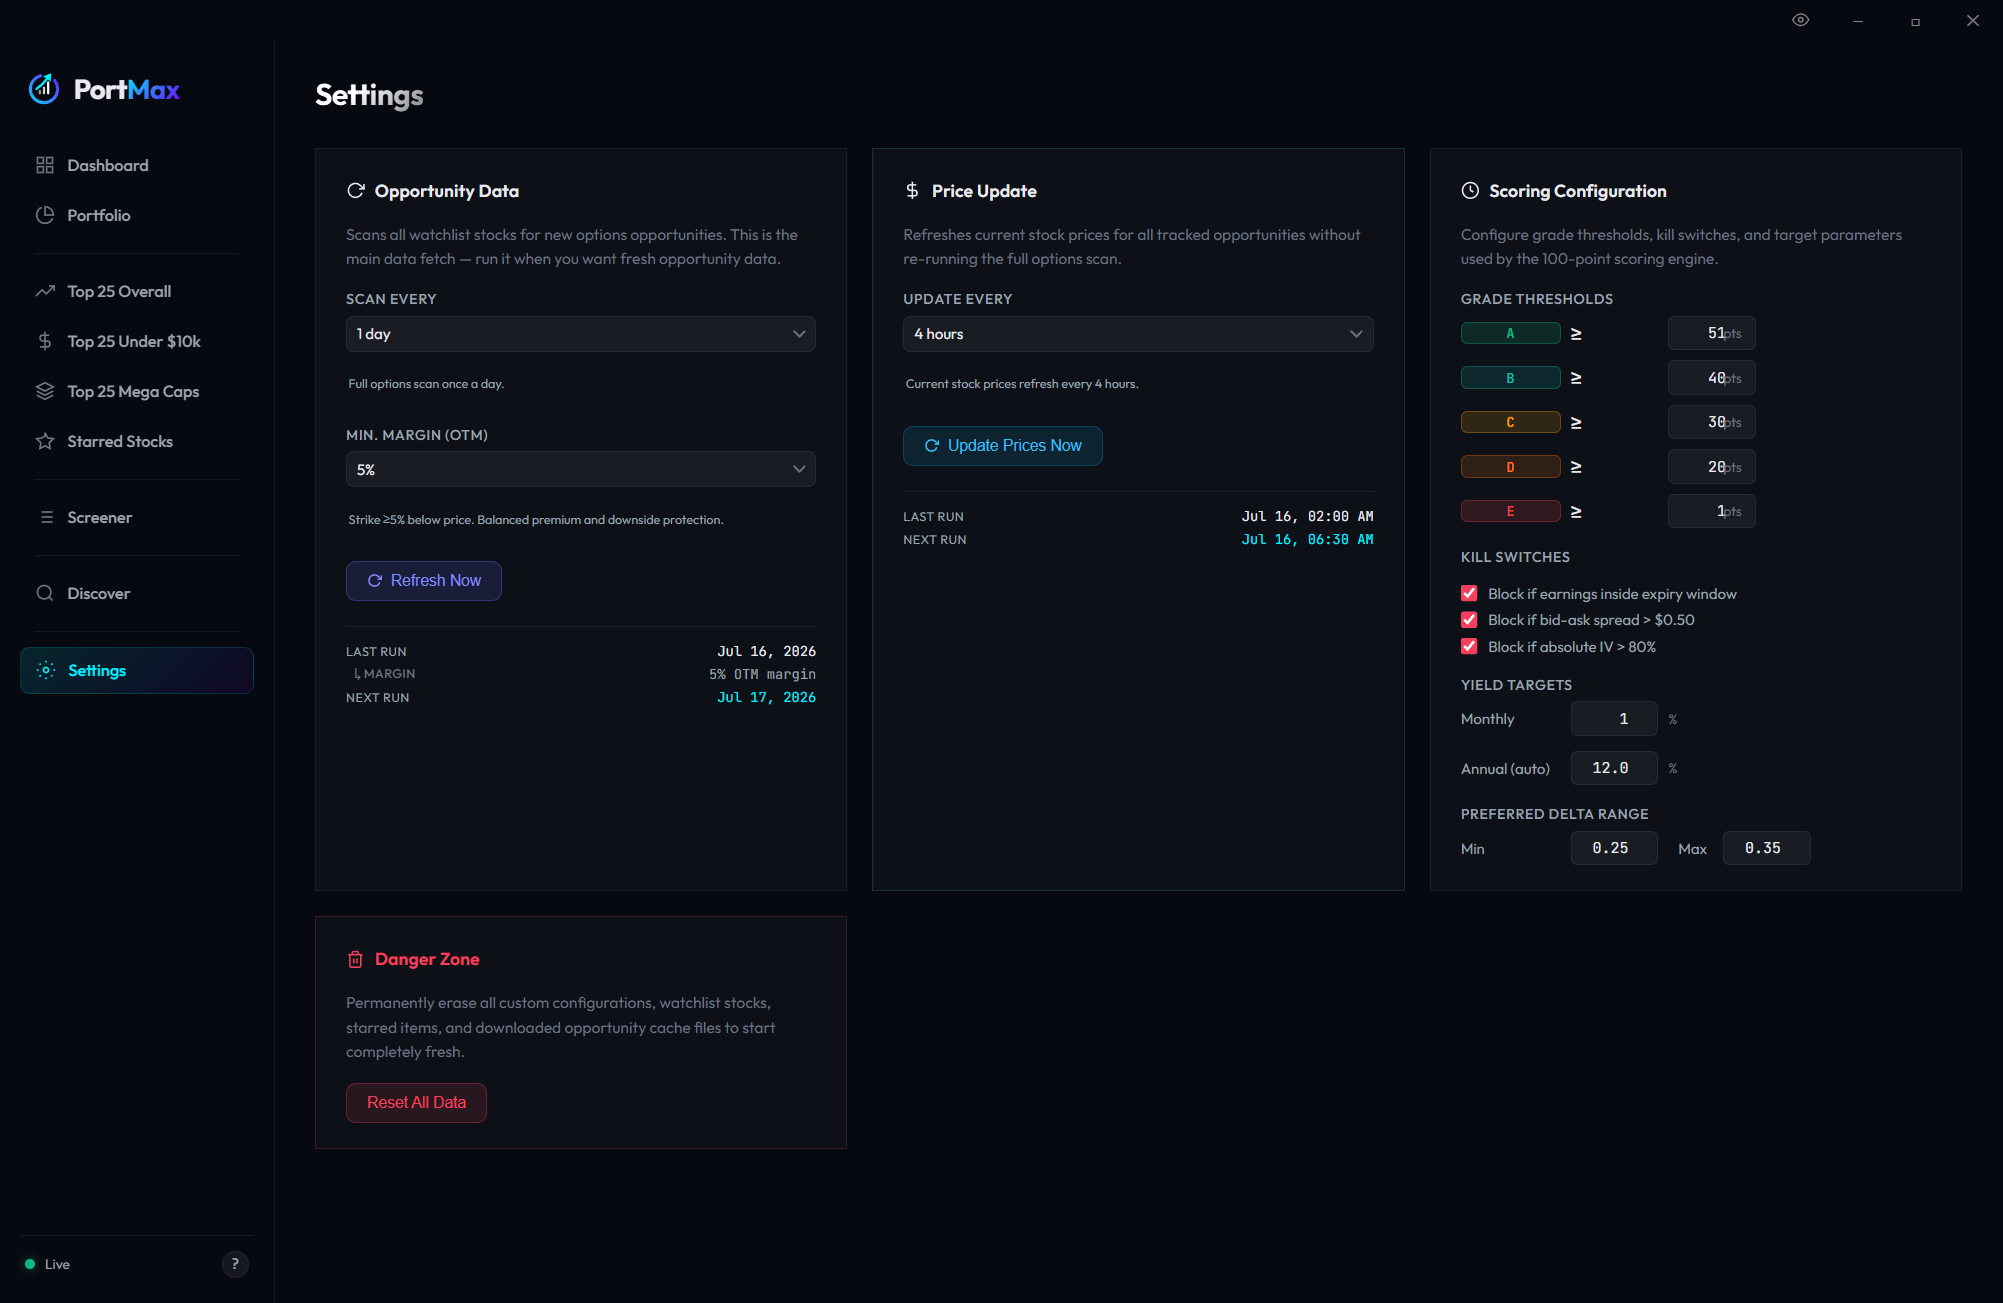
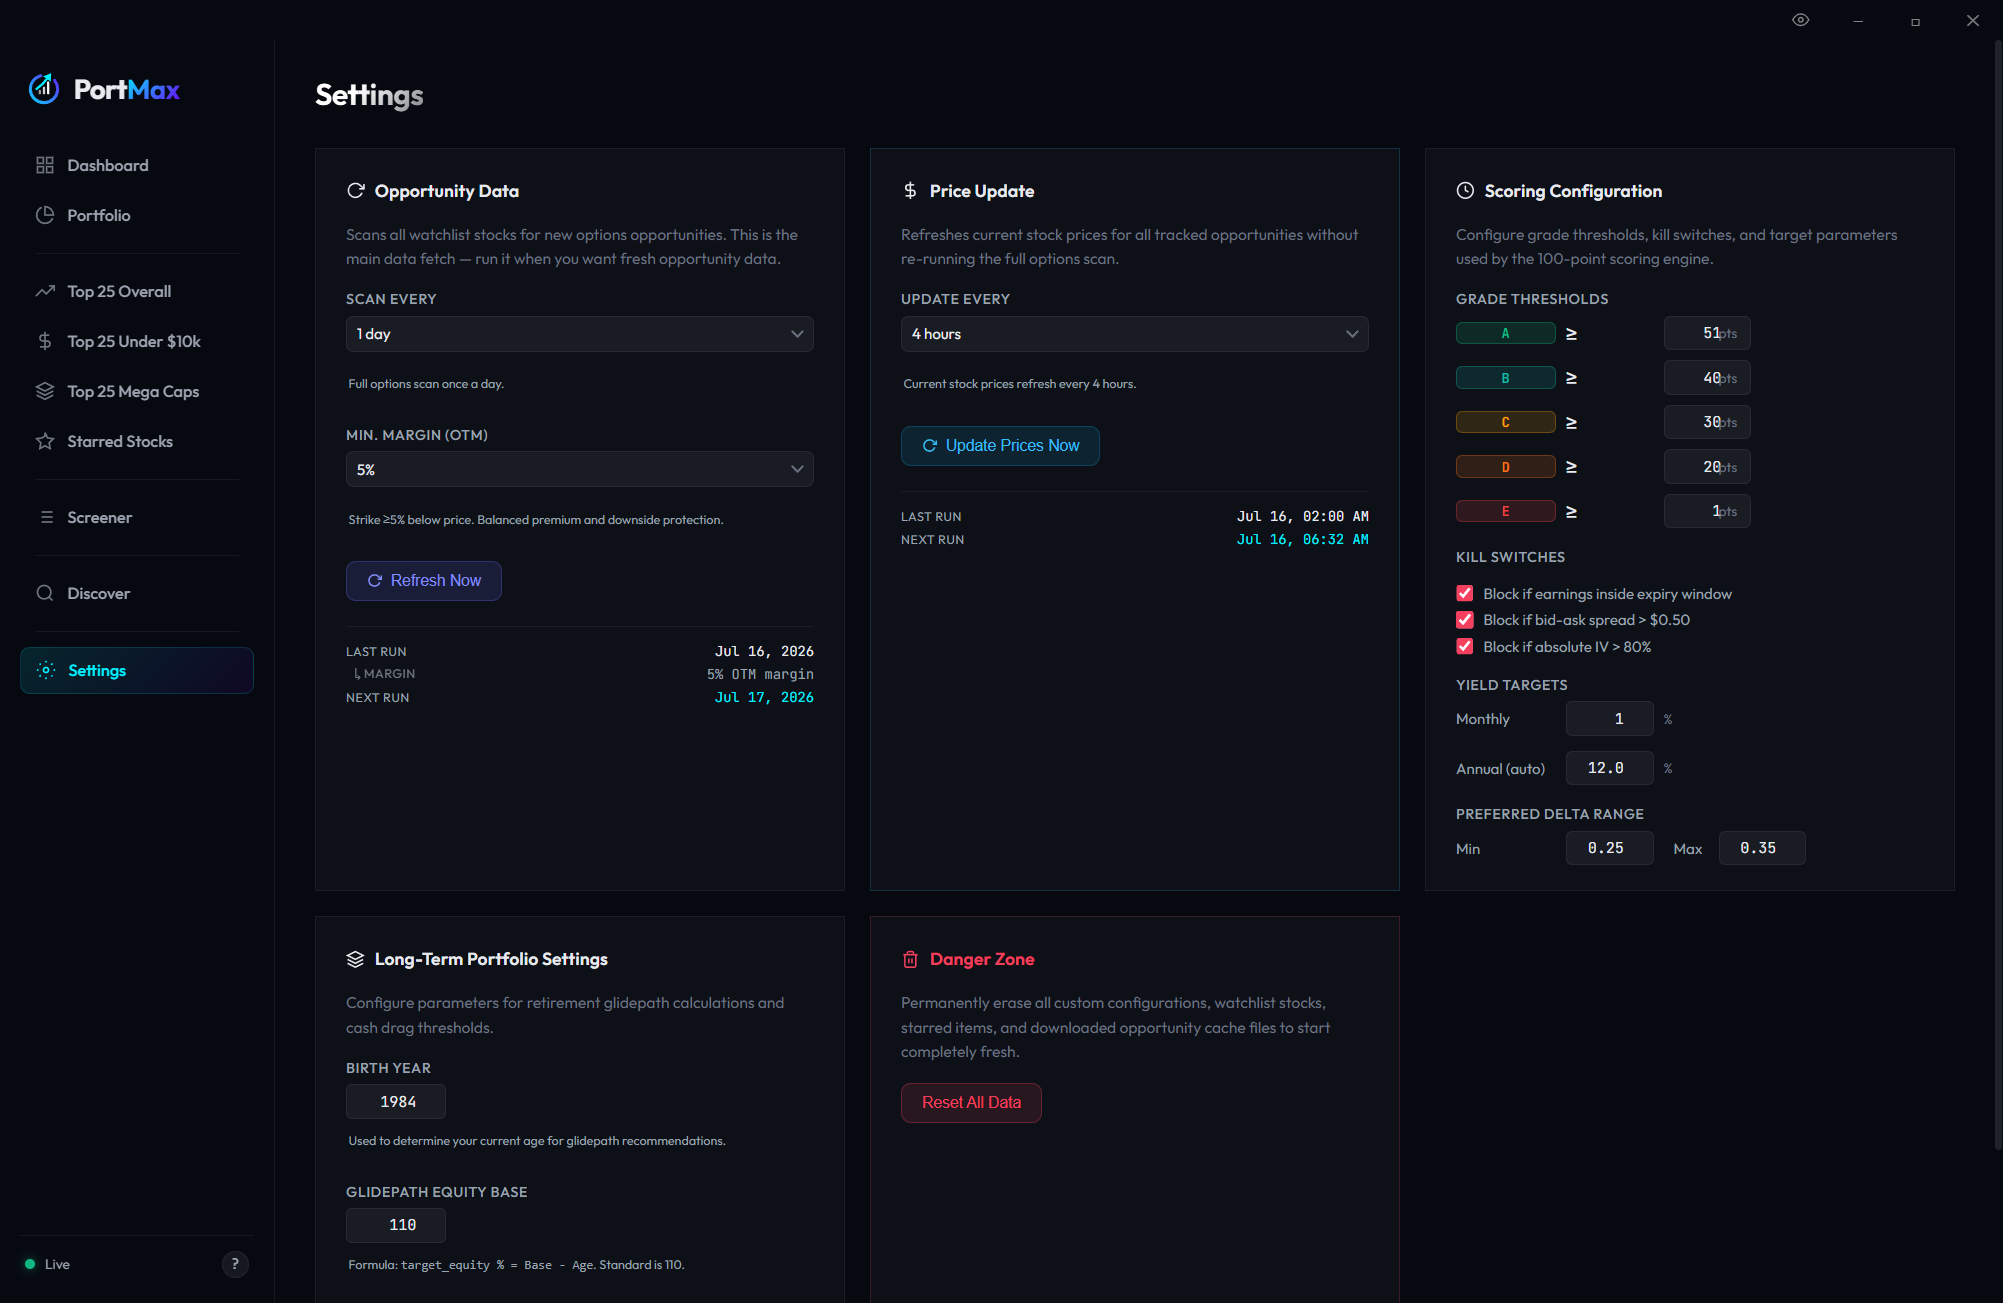
feat(guidance): add glidepath alerts and custom cash drag settings
Adds age-indexed equity target alerts and customizable cash drag
thresholds. Includes UI updates to manage these portfolio parameters.

diff --git a/lib/guidance.js b/lib/guidance.js
@@ -94,7 +94,7 @@ function parseAcquisitionDate(dateStr) {
   return isNaN(parsed.getTime()) ? null : parsed;
 }
 
-function generatePortfolioGuidance(holdings = [], cash = 0, targets = []) {
+function generatePortfolioGuidance(holdings = [], cash = 0, targets = [], settings = {}) {
   const items = [];
   const total = (holdings || []).reduce((s, h) => s + (h.marketValue || 0), 0) + (cash || 0);
   if (total <= 0) return items;
@@ -134,15 +134,40 @@ function generatePortfolioGuidance(holdings = [], cash = 0, targets = []) {
     });
   }
 
+  // Cash Drag alert with custom threshold
+  const cashDragLimit = settings.cashDragThreshold ?? 5000;
   const cashPct = (cash / total) * 100;
-  if (cashPct > 10 && cash > 5000) {
+  if (cashPct > 10 && cash > cashDragLimit) {
     items.push({
       id: 'cash-drag',
       type: 'cash-drag',
       title: `Cash Drag Alert`,
-      message: `You are holding cash representation of ${cashPct.toFixed(1)}% of your portfolio. Over long horizons, excess cash reduces returns. Consider setting up a monthly Dollar-Cost Averaging (DCA) plan to deploy this cash into your Core ETFs.`,
+      message: `You are holding cash representation of ${cashPct.toFixed(1)}% of your portfolio, exceeding your buffer of $${cashDragLimit.toLocaleString()}. Over long horizons, excess cash reduces returns. Consider deploying this cash into your Core ETFs.`,
       severity: 'warning',
     });
+  }
+
+  // Glidepath Allocation Drift
+  if (settings.birthYear) {
+    const currentYear = new Date().getFullYear();
+    const age = currentYear - settings.birthYear;
+    if (age > 0) {
+      const targetEquityPct = Math.max(0, Math.min(100, (settings.glidepathBase ?? 110) - age));
+      const equityVal = holdings.reduce((s, h) => s + (h.assetCategory !== 'OPT' ? h.marketValue : 0), 0);
+      const actualEquityPct = total > 0 ? (equityVal / total) * 100 : 0;
+      const drift = actualEquityPct - targetEquityPct;
+      const tolerance = 5;
+
+      if (Math.abs(drift) > tolerance) {
+        items.push({
+          id: 'glidepath-drift',
+          type: 'glidepath',
+          title: `Glidepath Allocation Drift`,
+          message: `Your overall equity exposure (${actualEquityPct.toFixed(1)}%) drifts from your age-indexed target of ${targetEquityPct.toFixed(1)}% (Age ${age}, formula: ${settings.glidepathBase ?? 110} - Age). Consider rebalancing to bonds/cash to maintain your target risk profile.`,
+          severity: 'warning',
+        });
+      }
+    }
   }
 
   const hasOptions = holdings.some(h => h.assetCategory === 'OPT' || h.symbol.length > 8);

diff --git a/src/index.html b/src/index.html
@@ -771,6 +771,33 @@
             </div>
           </div>
 
+          <!-- Long-Term Portfolio Settings Card -->
+          <div class="settings-card settings-card-portfolio">
+            <div class="settings-card-title">
+              <svg width="15" height="15" viewBox="0 0 24 24" fill="none" stroke="currentColor" stroke-width="2"><path d="M12 2L2 7l10 5 10-5-10-5zM2 17l10 5 10-5M2 12l10 5 10-5"/></svg>
+              Long-Term Portfolio Settings
+            </div>
+            <p class="settings-card-desc">Configure parameters for retirement glidepath calculations and cash drag thresholds.</p>
+
+            <div class="settings-field">
+              <label class="settings-field-label" for="settings-birth-year">Birth Year</label>
+              <input type="number" class="threshold-input" id="settings-birth-year" min="1900" max="2100" step="1" value="1984" style="width: 80px" />
+              <p class="setting-desc" style="margin-top:4px">Used to determine your current age for glidepath recommendations.</p>
+            </div>
+
+            <div class="settings-field">
+              <label class="settings-field-label" for="settings-glidepath-base">Glidepath Equity Base</label>
+              <input type="number" class="threshold-input" id="settings-glidepath-base" min="80" max="150" step="1" value="110" style="width: 80px" />
+              <p class="setting-desc" style="margin-top:4px">Formula: <code>target_equity % = Base - Age</code>. Standard is 110.</p>
+            </div>
+
+            <div class="settings-field">
+              <label class="settings-field-label" for="settings-cash-drag-threshold">Cash Drag Buffer ($)</label>
+              <input type="number" class="threshold-input" id="settings-cash-drag-threshold" min="0" max="100000" step="500" value="5000" style="width: 80px" />
+              <p class="setting-desc" style="margin-top:4px">Fires alert if uninvested cash exceeds this buffer and represents &gt;10% of portfolio.</p>
+            </div>
+          </div>
+
           <!-- Reset All Data Card -->
           <div class="settings-card" style="border-color: rgba(244, 63, 94, 0.2)">
             <div class="settings-card-title" style="color: var(--red)">

diff --git a/src/app.js b/src/app.js
@@ -1197,6 +1197,11 @@ async function initSettingsUI() {
     setIfEl('yield-target-monthly', monthly);
     setIfEl('yield-target-annual',  (monthly * 12).toFixed(1));
 
+    // Portfolio long-term settings
+    setIfEl('settings-birth-year', settings.birthYear ?? 1984);
+    setIfEl('settings-glidepath-base', settings.glidepathBase ?? 110);
+    setIfEl('settings-cash-drag-threshold', settings.cashDragThreshold ?? 5000);
+
     // Leave screener filter slider to 0 by default as requested
     screenerFilters.minScore = 0;
     const slider = el('filter-min-score');
@@ -1246,6 +1251,23 @@ async function initSettingsUI() {
       if (ann) ann.value = (v * 12).toFixed(1);
     });
   }
+
+  // Portfolio settings change listeners
+  ['settings-birth-year', 'settings-glidepath-base', 'settings-cash-drag-threshold'].forEach(id => {
+    const e = el(id); if (!e) return;
+    e.addEventListener('change', async () => {
+      const key = {
+        'settings-birth-year': 'birthYear',
+        'settings-glidepath-base': 'glidepathBase',
+        'settings-cash-drag-threshold': 'cashDragThreshold',
+      }[id];
+      await window.electronAPI.saveSettings({ [key]: parseInt(e.value, 10) });
+      
+      // Trigger portfolio render to update alerts immediately on settings changes
+      const p = await window.electronAPI.getPortfolio();
+      if (p) renderPortfolio(p);
+    });
+  });
 
   const resetBtn = el('reset-all-data-btn');
   if (resetBtn) {

diff --git a/test/guidance.test.js b/test/guidance.test.js
@@ -151,6 +151,20 @@ console.log('Running test/guidance.test.js...');
   assert.strictEqual(items.some(i => i.id === 'rebalance-near-ltcg-VTI-1'), true);
   assert.strictEqual(items.find(i => i.id === 'rebalance-near-ltcg-VTI-1').severity, 'warning');
 
+  // Glidepath allocation drift warning
+  const currentYearVal = new Date().getFullYear();
+  const birthYear = currentYearVal - 42; // age = 42
+  // glidepathBase = 110 => target equity = 110 - 42 = 68%
+  // holdings: VTI (100% of portfolio => actual equity = 100%)
+  // Drift = 100% - 68% = 32% (>5% tolerance => triggers glidepath warning)
+  holdings = [
+    { symbol: 'VTI', marketValue: 10000, isEmployerStock: false }
+  ];
+  const testSettings = { birthYear, glidepathBase: 110, cashDragThreshold: 5000 };
+  items = generatePortfolioGuidance(holdings, 0, [], testSettings);
+  assert.strictEqual(items.some(i => i.type === 'glidepath'), true);
+  assert.strictEqual(items.find(i => i.type === 'glidepath').severity, 'warning');
+
   console.log('  ✓ generatePortfolioGuidance tests passed');
 })();
 

diff --git a/main.js b/main.js
@@ -39,6 +39,9 @@ const DEFAULT_SETTINGS = {
   monthlyYieldTarget: 1.0,
   deltaMin: 0.25,
   deltaMax: 0.35,
+  birthYear: 1984,
+  glidepathBase: 110,
+  cashDragThreshold: 5000,
 };
 
 function loadSettings() {
@@ -848,7 +851,8 @@ app.whenReady().then(() => {
   });
 
   ipcMain.handle('get-portfolio-guidance', (_event, holdings, cash, targets) => {
-    return generatePortfolioGuidance(holdings, cash, targets);
+    const settings = loadSettings();
+    return generatePortfolioGuidance(holdings, cash, targets, settings);
   });
 
   createWindow();
